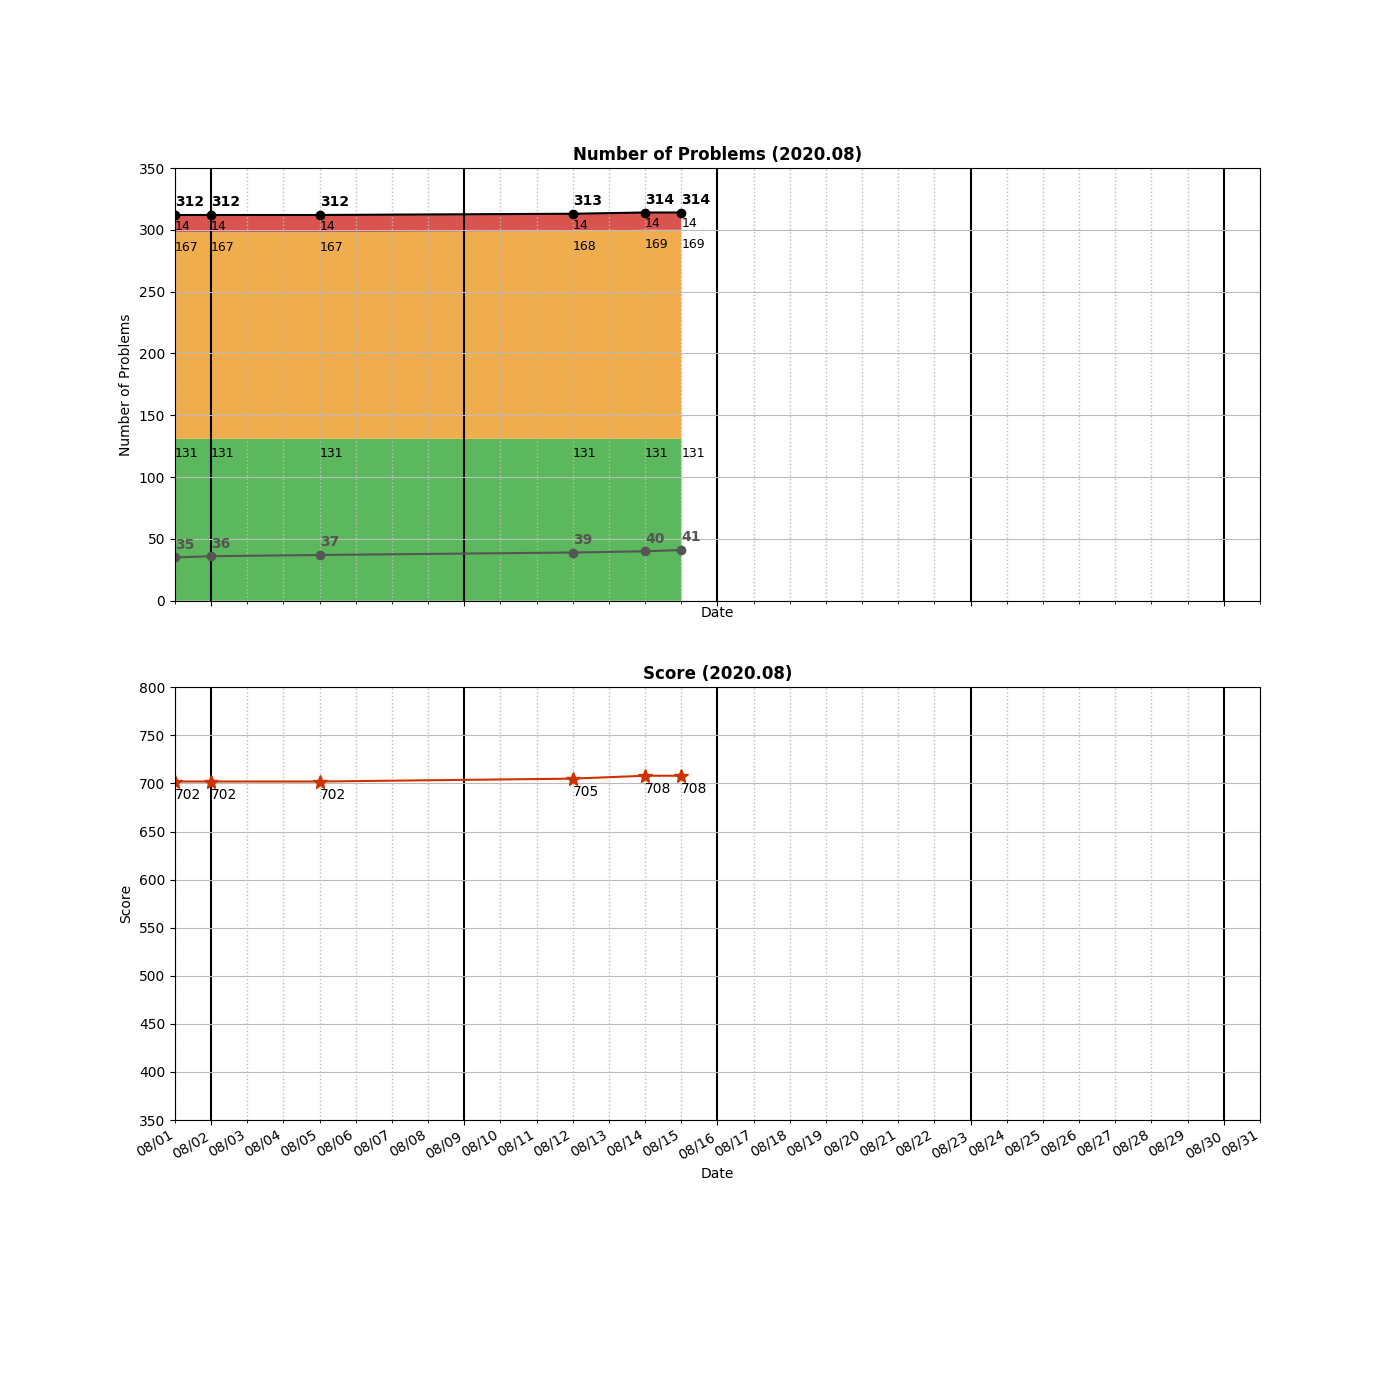
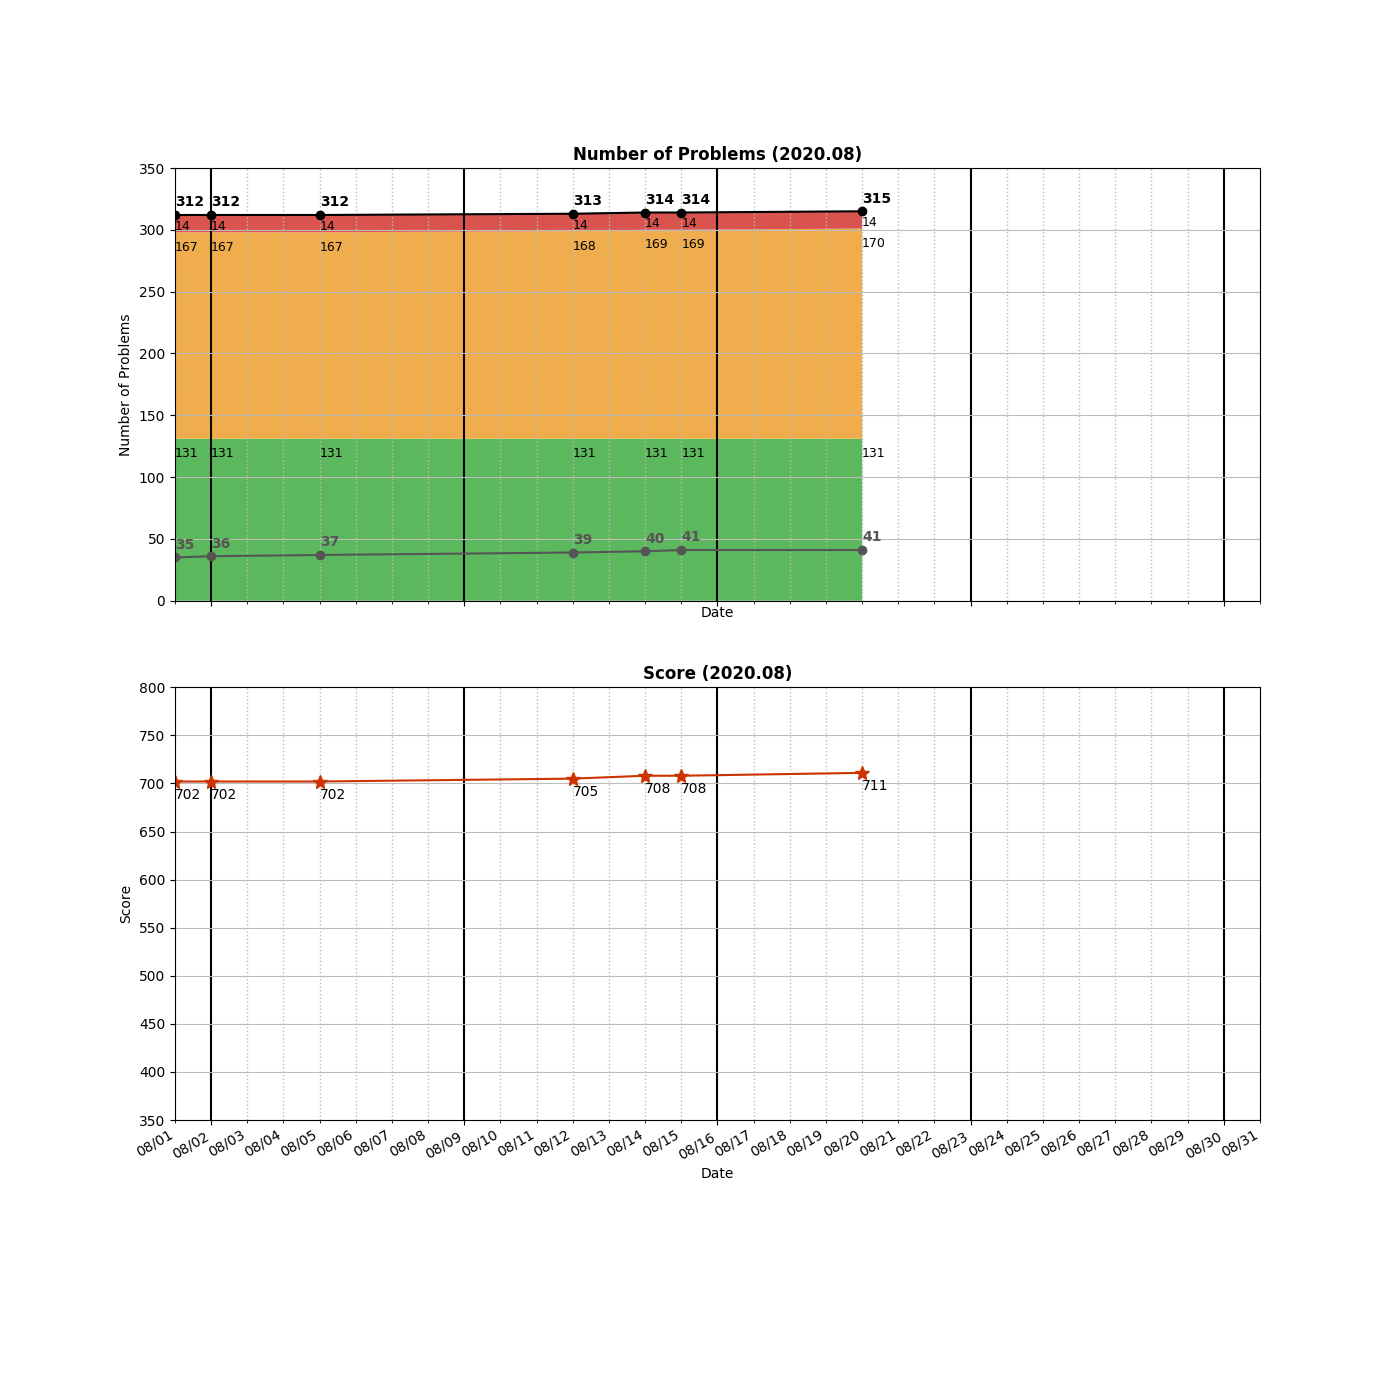
Added _0159_LongestSubstringWithAtMostTwoDistinctCharacters.py

Changed region(s): [[0.4607, 0.1229, 0.645, 0.43]]

diff --git a/algo/sliding-window/_0159_LongestSubstringWithAtMostTwoDistinctCharacters.py b/algo/sliding-window/_0159_LongestSubstringWithAtMostTwoDistinctCharacters.py
@@ -1,0 +1,48 @@
+class Solution:
+    
+    # Sliding window [9%]
+    def lengthOfLongestSubstringTwoDistinct(self, s: str) -> int:
+        if not s or len(s) == 0:
+            return 0
+        if len(s) < 3:
+            return len(s)
+        #charToCount = collections.defaultdict(int)
+        charToCount = {}
+        start, end = 0, 0
+        maxLength = 2
+        duplicateCount = 0
+        
+        while end < len(s):
+            print(start, end, charToCount)
+            #if duplicateCount > 2:
+            if len(charToCount) < 3: 
+                charToCount[s[end]] = end
+                end += 1
+            
+            if len(charToCount) == 3: 
+                # if charToCount[s[start]] == 2:
+                #     duplicateCount -= 1   
+                # if charToCount[s[start]] == 1:
+                #     del charToCount[s[start]]
+                # else:    
+                #     charToCount[s[start]] -= 1
+                delIdx = min(charToCount.values())
+                del charToCount[s[delIdx]]
+                start = delIdx + 1
+                # start += 1 
+#             else:
+#                 # if charToCount[s[end]] == 1:
+#                 #     duplicateCount += 1
+                
+#                 # if s[end] in charToCount:
+#                 #     charToCount[s[end]] += 1
+#                 # else:
+#                 #     charToCount[s[end]] = 1
+#                 charToCount[s[end]] = end
+#                 end += 1
+            
+            maxLength = max(maxLength, end - start)
+        
+        return maxLength
+                
+                

diff --git a/README.md b/README.md
@@ -235,7 +235,8 @@ algo
 │   ├── _0743_NetworkDelayTime.py
 │   └── _0787_CheapestFlightsWithinKStops.py
 ├── sliding-window
-│   └── _0076_MinimumWindowSubstring.py
+│   ├── _0076_MinimumWindowSubstring.py
+│   └── _0159_LongestSubstringWithAtMostTwoDistinctCharacters.py
 ├── sorting
 │   ├── _0075_SortColors.py
 │   └── _0912_SortAnArray.py
@@ -341,7 +342,7 @@ algo
     ├── _0127_WordLadder_TLE.py
     └── _0127_WordLadder_wrong.py
 
-28 directories, 312 files
+28 directories, 313 files
 
 =====================================
 ============= Local Repo ============
@@ -455,6 +456,7 @@ _0148_SortList.py
 _0152_MaximumProductSubarray.py
 _0153_FindMinimumInRotatedSortedArray.py
 _0155_MinStack.py
+_0159_LongestSubstringWithAtMostTwoDistinctCharacters.py
 _0160_IntersectionOfTwoLinkedLists.py
 _0162_FindPeakElement.py
 _0167_TwoSum2-InputArrayIsSorted.py
@@ -658,7 +660,7 @@ _1391_CheckIfThereIsAValidPathInAGrid.py
 _1427_PerformStringShifts.py
 _1490_CloneN-aryTree.py
 =====================================
-Num of Python Practice:  311
+Num of Python Practice:  312
 
 
 =====================================
@@ -772,6 +774,7 @@ Num of Python Practice:  311
  0152 Maximum Product Subarray
  0153 Find Minimum in Rotated Sorted Array
  0155 Min Stack
+ 0159 Longest Substring with At Most Two Distinct Characters
  0160 Intersection of Two Linked Lists
  0162 Find Peak Element
  0167 Two Sum II - Input array is sorted
@@ -979,11 +982,11 @@ Num of Python Practice:  311
  1427 Perform String Shifts
  1490 Clone N-ary Tree
 =====================================
-Solved / Total (Easy)  :  131 /  429
-Solved / Total (Medium):  169 /  793
-Solved / Total (Hard)  :   14 /  327
-Solved / Total (All)   :  314 / 1549
-Total Score            :  708
+Solved / Total (Easy)  :  131 /  430
+Solved / Total (Medium):  170 /  796
+Solved / Total (Hard)  :   14 /  328
+Solved / Total (All)   :  315 / 1554
+Total Score            :  711
 =====================================
 
 ```
